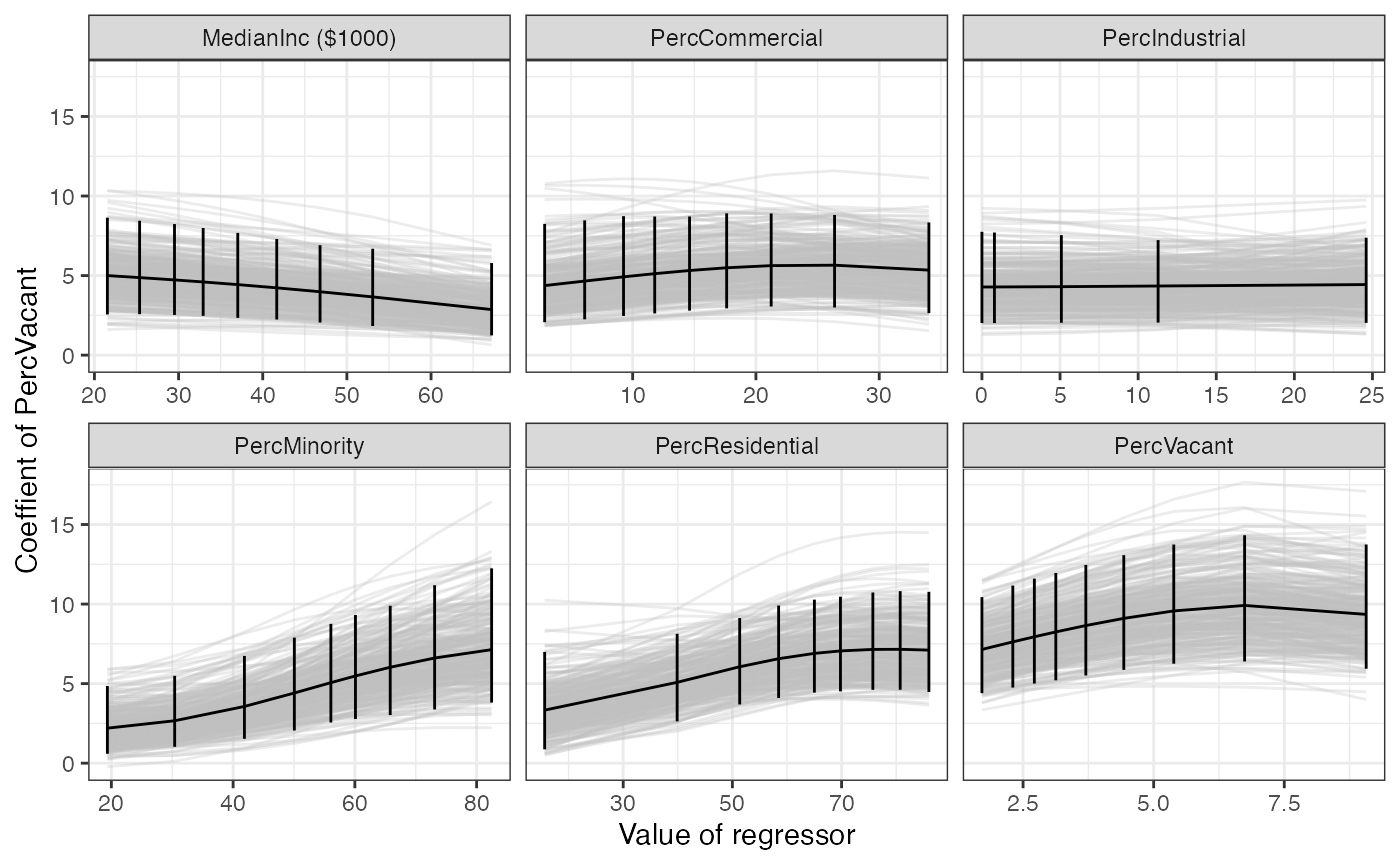
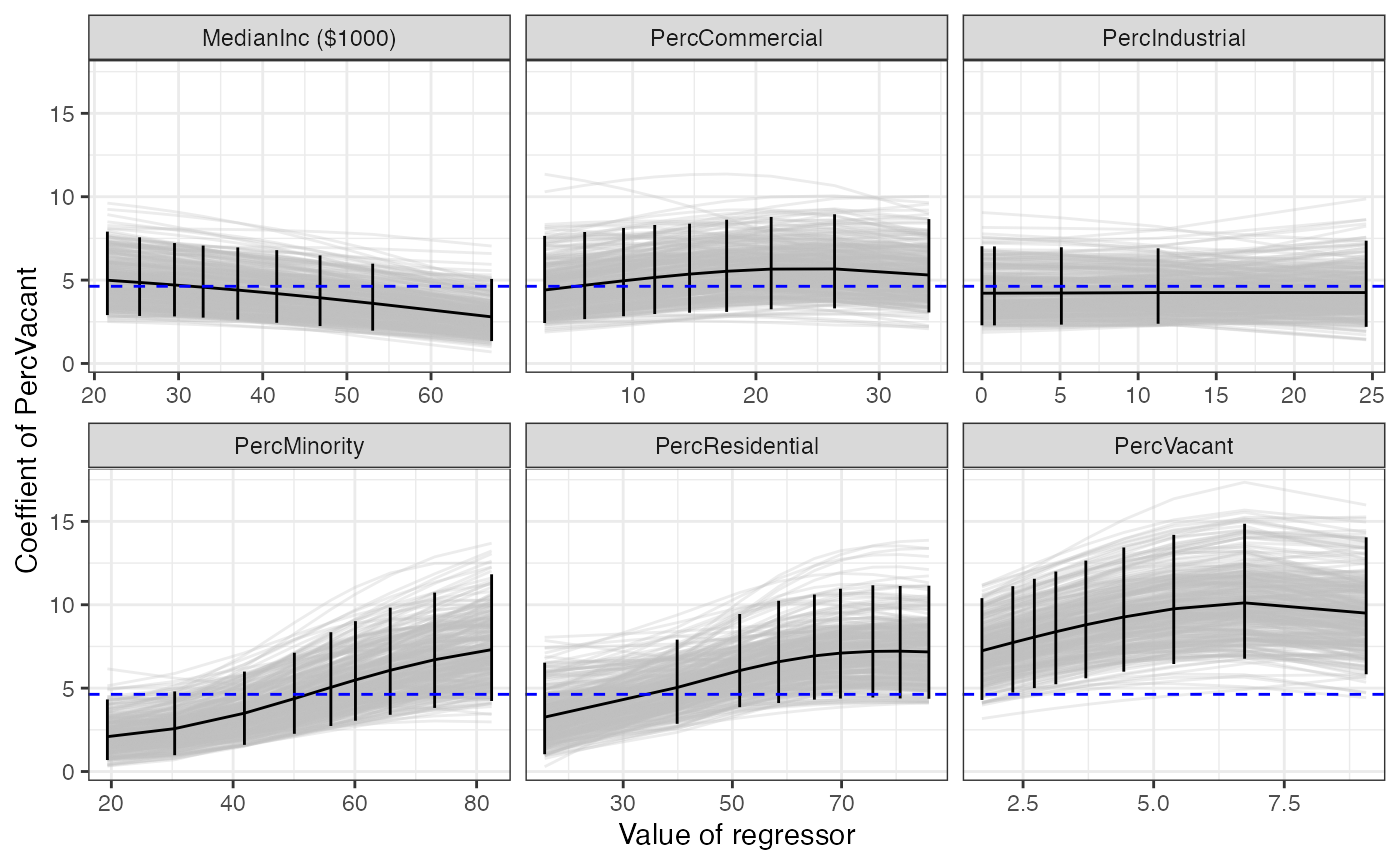
Update plots in vignette

diff --git a/docs/articles/se-la-county-data.html b/docs/articles/se-la-county-data.html
@@ -451,13 +451,13 @@ Term
 0.76
 </td>
 <td style="text-align:center;">
-16.03
+16.57
 </td>
 <td style="text-align:center;">
 0.05
 </td>
 <td style="text-align:center;">
-0.03
+0.04
 </td>
 </tr>
 <tr>
@@ -471,7 +471,7 @@ Term
 0.11
 </td>
 <td style="text-align:center;">
--1.69
+-1.60
 </td>
 <td style="text-align:center;">
 0.90
@@ -485,13 +485,13 @@ PercCommercial
 0.74
 </td>
 <td style="text-align:center;">
-0.41
+0.39
 </td>
 <td style="text-align:center;">
-1.82
+1.91
 </td>
 <td style="text-align:center;">
-0.93
+0.94
 </td>
 </tr>
 <tr>
@@ -502,10 +502,10 @@ PercIndustrial
 0.91
 </td>
 <td style="text-align:center;">
-0.60
+0.59
 </td>
 <td style="text-align:center;">
-1.51
+1.52
 </td>
 <td style="text-align:center;">
 0.88
@@ -522,10 +522,10 @@ PercMinority
 0.16
 </td>
 <td style="text-align:center;">
-0.79
+0.76
 </td>
 <td style="text-align:center;">
-0.59
+0.54
 </td>
 </tr>
 <tr>
@@ -542,7 +542,7 @@ PercResidential
 -0.44
 </td>
 <td style="text-align:center;">
-0.37
+0.35
 </td>
 </tr>
 <tr>
@@ -553,10 +553,10 @@ PercVacant
 4.63
 </td>
 <td style="text-align:center;">
-1.38
+1.41
 </td>
 <td style="text-align:center;">
-3.35
+3.27
 </td>
 <td style="text-align:center;">
 1.00
@@ -574,13 +574,13 @@ PercVacant
 <span class="co">#&gt; # Groups:   term [7]</span>
 <span class="co">#&gt;   term                 `0.025` `0.975`</span>
 <span class="co">#&gt;   &lt;chr&gt;                  &lt;dbl&gt;   &lt;dbl&gt;</span>
-<span class="co">#&gt; 1 (Intercept)         -31.0    33.2   </span>
-<span class="co">#&gt; 2 `MedianInc ($1000)`  -0.419   0.0238</span>
-<span class="co">#&gt; 3 PercCommercial       -0.0253  1.56  </span>
-<span class="co">#&gt; 4 PercIndustrial       -0.132   2.18  </span>
-<span class="co">#&gt; 5 PercMinority         -0.201   0.428 </span>
-<span class="co">#&gt; 6 PercResidential      -0.278   0.167 </span>
-<span class="co">#&gt; 7 PercVacant            2.58    8.07</span></code></pre></div>
+<span class="co">#&gt; 1 (Intercept)         -33.1    33.5   </span>
+<span class="co">#&gt; 2 `MedianInc ($1000)`  -0.445   0.0175</span>
+<span class="co">#&gt; 3 PercCommercial       -0.0208  1.48  </span>
+<span class="co">#&gt; 4 PercIndustrial       -0.128   2.15  </span>
+<span class="co">#&gt; 5 PercMinority         -0.177   0.446 </span>
+<span class="co">#&gt; 6 PercResidential      -0.265   0.164 </span>
+<span class="co">#&gt; 7 PercVacant            2.67    8.06</span></code></pre></div>
 </div>
 <div id="computing-standard-errors-from-ols-using-multiplier-bootstrap" class="section level2">
 <h2 class="hasAnchor">
@@ -624,15 +624,18 @@ PercVacant
 <div class="sourceCode" id="cb15"><pre class="downlit sourceCode r">
 <code class="sourceCode R">
 <span class="va">comp_se</span> <span class="op">&lt;-</span> <span class="va">se_sand</span> <span class="op">%&gt;%</span>
+  <span class="fu">dplyr</span><span class="fu">::</span><span class="fu"><a href="https://dplyr.tidyverse.org/reference/filter.html">filter</a></span><span class="op">(</span><span class="va">term</span> <span class="op">!=</span> <span class="st">'(Intercept)'</span><span class="op">)</span> <span class="op">%&gt;%</span>
   <span class="fu">tidyr</span><span class="fu">::</span><span class="fu"><a href="https://tidyr.tidyverse.org/reference/pivot_longer.html">pivot_longer</a></span><span class="op">(</span>cols <span class="op">=</span> <span class="fu"><a href="https://rdrr.io/r/base/c.html">c</a></span><span class="op">(</span><span class="va">std.error</span>, <span class="va">std.error.sand</span><span class="op">)</span>, names_to <span class="op">=</span> <span class="st">'Type'</span>, values_to <span class="op">=</span> <span class="st">'std.error'</span><span class="op">)</span> <span class="op">%&gt;%</span>
   <span class="fu">dplyr</span><span class="fu">::</span><span class="fu"><a href="https://dplyr.tidyverse.org/reference/mutate.html">mutate</a></span><span class="op">(</span>Type <span class="op">=</span> <span class="fu"><a href="https://rdrr.io/r/base/ifelse.html">ifelse</a></span><span class="op">(</span><span class="va">Type</span> <span class="op">==</span> <span class="st">'std.error'</span>, <span class="st">'lm'</span>, <span class="st">'sandwich'</span><span class="op">)</span><span class="op">)</span> <span class="op">%&gt;%</span>
   <span class="fu">ggplot2</span><span class="fu">::</span><span class="fu"><a href="https://ggplot2.tidyverse.org/reference/ggplot.html">ggplot</a></span><span class="op">(</span><span class="fu">ggplot2</span><span class="fu">::</span><span class="fu"><a href="https://ggplot2.tidyverse.org/reference/aes.html">aes</a></span><span class="op">(</span><span class="va">term</span>, <span class="va">estimate</span>, col <span class="op">=</span> <span class="va">Type</span><span class="op">)</span><span class="op">)</span> <span class="op">+</span> 
   <span class="fu">ggplot2</span><span class="fu">::</span><span class="fu"><a href="https://ggplot2.tidyverse.org/reference/ggtheme.html">theme_bw</a></span><span class="op">(</span><span class="op">)</span> <span class="op">+</span> 
     <span class="fu">ggplot2</span><span class="fu">::</span><span class="fu"><a href="https://ggplot2.tidyverse.org/reference/geom_point.html">geom_point</a></span><span class="op">(</span>position<span class="op">=</span><span class="fu">ggplot2</span><span class="fu">::</span><span class="fu"><a href="https://ggplot2.tidyverse.org/reference/position_dodge.html">position_dodge</a></span><span class="op">(</span>width<span class="op">=</span><span class="fl">0.5</span><span class="op">)</span><span class="op">)</span> <span class="op">+</span> 
+  <span class="fu">ggplot2</span><span class="fu">::</span><span class="fu"><a href="https://ggplot2.tidyverse.org/reference/labs.html">labs</a></span><span class="op">(</span>x <span class="op">=</span> <span class="st">'Regressor'</span>, y <span class="op">=</span> <span class="st">'Estimate'</span><span class="op">)</span> <span class="op">+</span>
+  <span class="fu">ggplot2</span><span class="fu">::</span><span class="fu"><a href="https://ggplot2.tidyverse.org/reference/geom_abline.html">geom_hline</a></span><span class="op">(</span>yintercept <span class="op">=</span> <span class="fl">0</span>, linetype <span class="op">=</span> <span class="st">'dashed'</span><span class="op">)</span> <span class="op">+</span>
   <span class="fu">ggplot2</span><span class="fu">::</span><span class="fu"><a href="https://ggplot2.tidyverse.org/reference/geom_linerange.html">geom_errorbar</a></span><span class="op">(</span><span class="fu">ggplot2</span><span class="fu">::</span><span class="fu"><a href="https://ggplot2.tidyverse.org/reference/aes.html">aes</a></span><span class="op">(</span>ymin <span class="op">=</span> <span class="va">estimate</span><span class="op">-</span><span class="fl">1.96</span><span class="op">*</span><span class="va">std.error</span>, ymax <span class="op">=</span> <span class="va">estimate</span><span class="op">+</span><span class="fl">1.96</span><span class="op">*</span><span class="va">std.error</span>, col <span class="op">=</span> <span class="va">Type</span><span class="op">)</span>,
                          position <span class="op">=</span> <span class="fu">ggplot2</span><span class="fu">::</span><span class="fu"><a href="https://ggplot2.tidyverse.org/reference/position_dodge.html">position_dodge</a></span><span class="op">(</span>width<span class="op">=</span><span class="fl">0.5</span><span class="op">)</span>, width <span class="op">=</span> <span class="fl">0.1</span>
-                         <span class="op">)</span> <span class="op">+</span> 
-  <span class="fu">ggplot2</span><span class="fu">::</span><span class="fu"><a href="https://ggplot2.tidyverse.org/reference/facet_wrap.html">facet_wrap</a></span><span class="op">(</span><span class="op">~</span> <span class="va">term</span>, scales <span class="op">=</span> <span class="st">'free'</span><span class="op">)</span>
+                         <span class="op">)</span> <span class="co">#+ </span>
+  <span class="co">#ggplot2::facet_wrap(~ term, scales = 'free')</span>
 <span class="va">comp_se</span></code></pre></div>
 <p><img src="se-la-county-data_files/figure-html/plot_std_sand-1.png" width="700" style="display: block; margin: auto;"></p>
 </div>
@@ -724,13 +727,13 @@ Term
 0.96
 </td>
 <td style="text-align:center;">
-16.03
+16.57
 </td>
 <td style="text-align:center;">
 0.05
 </td>
 <td style="text-align:center;">
-0.03
+0.04
 </td>
 </tr>
 <tr>
@@ -762,7 +765,7 @@ Term
 0.11
 </td>
 <td style="text-align:center;">
--1.69
+-1.60
 </td>
 <td style="text-align:center;">
 0.90
@@ -794,10 +797,10 @@ PercVacant
 0.00
 </td>
 <td style="text-align:center;">
-1.38
+1.41
 </td>
 <td style="text-align:center;">
-3.35
+3.27
 </td>
 <td style="text-align:center;">
 1.00
@@ -832,10 +835,10 @@ PercMinority
 0.16
 </td>
 <td style="text-align:center;">
-0.79
+0.76
 </td>
 <td style="text-align:center;">
-0.59
+0.54
 </td>
 </tr>
 <tr>
@@ -870,7 +873,7 @@ PercResidential
 -0.44
 </td>
 <td style="text-align:center;">
-0.37
+0.35
 </td>
 </tr>
 <tr>
@@ -899,13 +902,13 @@ PercCommercial
 0.06
 </td>
 <td style="text-align:center;">
-0.41
+0.39
 </td>
 <td style="text-align:center;">
-1.82
+1.91
 </td>
 <td style="text-align:center;">
-0.93
+0.94
 </td>
 </tr>
 <tr>
@@ -934,10 +937,10 @@ PercIndustrial
 0.12
 </td>
 <td style="text-align:center;">
-0.60
+0.59
 </td>
 <td style="text-align:center;">
-1.51
+1.52
 </td>
 <td style="text-align:center;">
 0.88
@@ -997,7 +1000,7 @@ PercIndustrial
 <span id="cb18-14"><a href="#cb18-14" aria-hidden="true" tabindex="-1"></a><span class="co">#&gt; $ boot_out &lt;list&gt; [&lt;tbl_df[7 x 2]&gt;, &lt;tbl_df[7 x 2]&gt;, &lt;tbl_df[7 x 2]&gt;,…</span></span></code></pre></div>
 <p>To facilitate the interpretation of the results, we rely on graphical model diagnostics. Here, we show the “focal slope” model diagnostics. The <code>focal_slope</code> plot shows how one coefficient of interests varies under reweighting of each of the regressors. In the plot below we consider the case of “PercVacant.”</p>
 <div class="sourceCode" id="cb19"><pre class="downlit sourceCode r">
-<code class="sourceCode R"><span class="va">fs</span> <span class="op">&lt;-</span> <span class="fu">maar</span><span class="fu">::</span><span class="fu"><a href="../reference/focal_slope.html">focal_slope</a></span><span class="op">(</span><span class="va">coef_rwgt</span>, <span class="st">'PercVacant'</span><span class="op">)</span>
+<code class="sourceCode R"><span class="va">fs</span> <span class="op">&lt;-</span> <span class="fu">maar</span><span class="fu">::</span><span class="fu"><a href="../reference/focal_slope.html">focal_slope</a></span><span class="op">(</span><span class="va">mod_fit</span>, <span class="va">coef_rwgt</span>, <span class="st">'PercVacant'</span><span class="op">)</span>
 <span class="va">fs</span></code></pre></div>
 <p><img src="se-la-county-data_files/figure-html/model_diag_focal_slope-1.png" width="700" style="display: block; margin: auto;"></p>
 </div>

diff --git a/docs/reference/focal_rwgt_var.html b/docs/reference/focal_rwgt_var.html
@@ -131,11 +131,16 @@ see Buja et al. (2019)
 .</p>
     </div>
 
-    <pre class="usage"><span class='fu'>focal_rwgt_var</span><span class='op'>(</span><span class='va'>coef_rwgt</span>, <span class='va'>term_chosen</span><span class='op'>)</span></pre>
+    <pre class="usage"><span class='fu'>focal_rwgt_var</span><span class='op'>(</span><span class='va'>mod_fit</span>, <span class='va'>coef_rwgt</span>, <span class='va'>term_chosen</span><span class='op'>)</span></pre>
 
     <h2 class="hasAnchor" id="arguments"><a class="anchor" href="#arguments"></a>Arguments</h2>
     <table class="ref-arguments">
     <colgroup><col class="name" /><col class="desc" /></colgroup>
+    <tr>
+      <th>mod_fit</th>
+      <td><p>An object of class "lm" or "glm" to fit on the data. This object
+should contain the formula, the data, and, in case of "glm", the family</p></td>
+    </tr>
     <tr>
       <th>coef_rwgt</th>
       <td><p>A tibble containing the number of the bootstrapped data set (b),
@@ -170,7 +175,7 @@ ISSN 0883-4237, doi: <a href='https://doi.org/10.1214/18-STS694'>10.1214/18-STS6
 
     <h2 class="hasAnchor" id="examples"><a class="anchor" href="#examples"></a>Examples</h2>
     <pre class="examples"><div class='input'><span class='kw'>if</span> <span class='op'>(</span><span class='cn'>FALSE</span><span class='op'>)</span> <span class='op'>{</span>
-<span class='co'># Get focal slope of X1</span>
+<span class='co'># Get focal reweighting variable plot of X1</span>
 <span class='va'>n</span> <span class='op'>&lt;-</span> <span class='fl'>1e3</span>
 <span class='va'>X1</span> <span class='op'>&lt;-</span> <span class='fu'>stats</span><span class='fu'>::</span><span class='fu'><a href='https://rdrr.io/r/stats/Normal.html'>rnorm</a></span><span class='op'>(</span><span class='va'>n</span>, <span class='fl'>0</span>, <span class='fl'>1</span><span class='op'>)</span>
 <span class='va'>X2</span> <span class='op'>&lt;-</span> <span class='fu'>stats</span><span class='fu'>::</span><span class='fu'><a href='https://rdrr.io/r/stats/Normal.html'>rnorm</a></span><span class='op'>(</span><span class='va'>n</span>, <span class='fl'>0</span>, <span class='fl'>3</span><span class='op'>)</span>
@@ -180,7 +185,7 @@ ISSN 0883-4237, doi: <a href='https://doi.org/10.1214/18-STS694'>10.1214/18-STS6
 <span class='va'>ols_rwgt</span> <span class='op'>&lt;-</span> <span class='fu'><a href='comp_coef_rwgt.html'>comp_coef_rwgt</a></span><span class='op'>(</span><span class='va'>mod_fit</span>, <span class='fu'><a href='https://rdrr.io/r/base/c.html'>c</a></span><span class='op'>(</span><span class='st'>"X1"</span>, <span class='st'>"X2"</span><span class='op'>)</span>, B <span class='op'>=</span> <span class='fl'>300</span><span class='op'>)</span>
 
 <span class='co'># Display the output</span>
-<span class='fu'>focal_reweighting_variable</span><span class='op'>(</span><span class='va'>ols_rwgt</span>, <span class='st'>"X1"</span><span class='op'>)</span>
+<span class='fu'>focal_rwgt_var</span><span class='op'>(</span><span class='va'>mod_fit</span>, <span class='va'>ols_rwgt</span>, <span class='st'>"X1"</span><span class='op'>)</span>
 <span class='op'>}</span>
 
 </div></pre>

diff --git a/docs/reference/nonlinearity_detection.html b/docs/reference/nonlinearity_detection.html
@@ -133,11 +133,16 @@ see Buja et al. (2019)
 This tool provides insights into marginal nonlinear behavior of response surfaces.</p>
     </div>
 
-    <pre class="usage"><span class='fu'>nonlinearity_detection</span><span class='op'>(</span><span class='va'>coef_rwgt</span><span class='op'>)</span></pre>
+    <pre class="usage"><span class='fu'>nonlinearity_detection</span><span class='op'>(</span><span class='va'>mod_fit</span>, <span class='va'>coef_rwgt</span><span class='op'>)</span></pre>
 
     <h2 class="hasAnchor" id="arguments"><a class="anchor" href="#arguments"></a>Arguments</h2>
     <table class="ref-arguments">
     <colgroup><col class="name" /><col class="desc" /></colgroup>
+    <tr>
+      <th>mod_fit</th>
+      <td><p>An object of class "lm" or "glm" to fit on the data. This object
+should contain the formula, the data, and, in case of "glm", the family</p></td>
+    </tr>
     <tr>
       <th>coef_rwgt</th>
       <td><p>A tibble containing the number of the bootstrapped data set (b),
@@ -166,7 +171,7 @@ ISSN 0883-4237, doi: <a href='https://doi.org/10.1214/18-STS694'>10.1214/18-STS6
 
     <h2 class="hasAnchor" id="examples"><a class="anchor" href="#examples"></a>Examples</h2>
     <pre class="examples"><div class='input'><span class='kw'>if</span> <span class='op'>(</span><span class='cn'>FALSE</span><span class='op'>)</span> <span class='op'>{</span>
-<span class='co'># Get focal slope of X1</span>
+<span class='co'># Get nonlinearity detection plot</span>
 <span class='va'>n</span> <span class='op'>&lt;-</span> <span class='fl'>1e3</span>
 <span class='va'>X1</span> <span class='op'>&lt;-</span> <span class='fu'>stats</span><span class='fu'>::</span><span class='fu'><a href='https://rdrr.io/r/stats/Normal.html'>rnorm</a></span><span class='op'>(</span><span class='va'>n</span>, <span class='fl'>0</span>, <span class='fl'>1</span><span class='op'>)</span>
 <span class='va'>X2</span> <span class='op'>&lt;-</span> <span class='fu'>stats</span><span class='fu'>::</span><span class='fu'><a href='https://rdrr.io/r/stats/Normal.html'>rnorm</a></span><span class='op'>(</span><span class='va'>n</span>, <span class='fl'>0</span>, <span class='fl'>3</span><span class='op'>)</span>
@@ -176,7 +181,7 @@ ISSN 0883-4237, doi: <a href='https://doi.org/10.1214/18-STS694'>10.1214/18-STS6
 <span class='va'>ols_rwgt</span> <span class='op'>&lt;-</span> <span class='fu'><a href='comp_coef_rwgt.html'>comp_coef_rwgt</a></span><span class='op'>(</span><span class='va'>mod_fit</span>, <span class='fu'><a href='https://rdrr.io/r/base/c.html'>c</a></span><span class='op'>(</span><span class='st'>"X1"</span>, <span class='st'>"X2"</span><span class='op'>)</span>, B <span class='op'>=</span> <span class='fl'>300</span><span class='op'>)</span>
 
 <span class='co'># Display the output</span>
-<span class='fu'>nonlinearity_detection</span><span class='op'>(</span><span class='va'>ols_rwgt</span><span class='op'>)</span>
+<span class='fu'>nonlinearity_detection</span><span class='op'>(</span><span class='va'>mod_fit</span>, <span class='va'>ols_rwgt</span><span class='op'>)</span>
 <span class='op'>}</span>
 </div></pre>
   </div>

diff --git a/docs/reference/focal_slope.html b/docs/reference/focal_slope.html
@@ -135,11 +135,16 @@ The diagnostic is useful to investigate interaction terms that have not been inc
 in the model in the first place.</p>
     </div>
 
-    <pre class="usage"><span class='fu'>focal_slope</span><span class='op'>(</span><span class='va'>coef_rwgt</span>, <span class='va'>term_chosen</span><span class='op'>)</span></pre>
+    <pre class="usage"><span class='fu'>focal_slope</span><span class='op'>(</span><span class='va'>mod_fit</span>, <span class='va'>coef_rwgt</span>, <span class='va'>term_chosen</span><span class='op'>)</span></pre>
 
     <h2 class="hasAnchor" id="arguments"><a class="anchor" href="#arguments"></a>Arguments</h2>
     <table class="ref-arguments">
     <colgroup><col class="name" /><col class="desc" /></colgroup>
+    <tr>
+      <th>mod_fit</th>
+      <td><p>An object of class "lm" or "glm" to fit on the data. This object
+should contain the formula, the data, and, in case of "glm", the family</p></td>
+    </tr>
     <tr>
       <th>coef_rwgt</th>
       <td><p>A tibble containing the number of the bootstrapped data set (b),
@@ -182,7 +187,7 @@ ISSN 0883-4237, doi: <a href='https://doi.org/10.1214/18-STS694'>10.1214/18-STS6
 <span class='va'>ols_rwgt</span> <span class='op'>&lt;-</span> <span class='fu'><a href='comp_coef_rwgt.html'>comp_coef_rwgt</a></span><span class='op'>(</span><span class='va'>mod_fit</span>, <span class='fu'><a href='https://rdrr.io/r/base/c.html'>c</a></span><span class='op'>(</span><span class='st'>"X1"</span>, <span class='st'>"X2"</span><span class='op'>)</span>, B <span class='op'>=</span> <span class='fl'>300</span><span class='op'>)</span>
 
 <span class='co'># Display the output</span>
-<span class='fu'>focal_slope</span><span class='op'>(</span><span class='va'>ols_rwgt</span>, <span class='st'>"X1"</span><span class='op'>)</span>
+<span class='fu'>focal_slope</span><span class='op'>(</span><span class='va'>mod_fit</span>, <span class='va'>ols_rwgt</span>, <span class='st'>"X1"</span><span class='op'>)</span>
 <span class='op'>}</span>
 </div></pre>
   </div>
